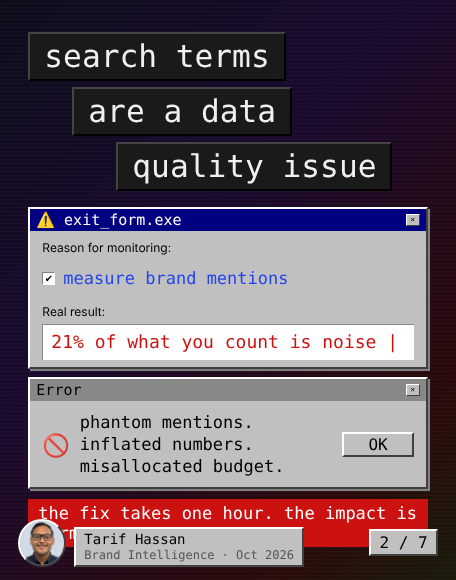
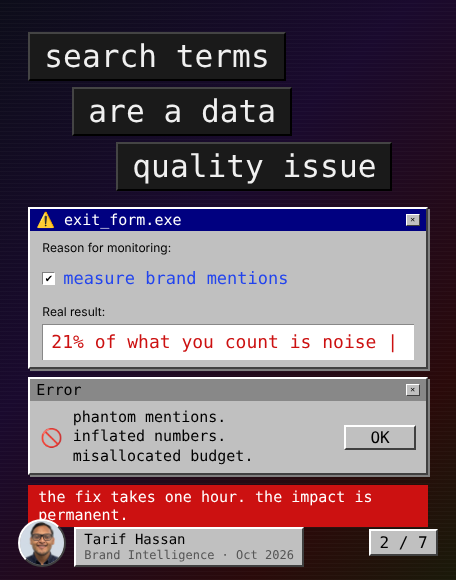
Fix slide overlap, recapture PNGs, center images in README

Changed region(s): [[0.0614, 0.7138, 0.9518, 0.9621]]

diff --git a/README.md b/README.md
@@ -5,7 +5,7 @@ Brand monitoring tools count YouTube mentions by searching for keywords. But wha
 
 Public data · YouTube Data API v3 · PostgreSQL / SQL analysis · Personal portfolio project
 
-![Slide 1](06_executive_brief/slides/slide_01.png)
+<p align="center"><img src="06_executive_brief/slides/slide_01.png" width="480"></p>
 
 ---
 
@@ -15,13 +15,13 @@ Brand teams search YouTube for "dove" and count everything as a brand mention. A
 
 Full framing in [`01_business_problem/problem_statement.md`](01_business_problem/problem_statement.md).
 
-![Slide 2](06_executive_brief/slides/slide_02.png)
+<p align="center"><img src="06_executive_brief/slides/slide_02.png" width="480"></p>
 
 ---
 
 ## Methodology
 
-![Slide 3](06_executive_brief/slides/slide_03.png)
+<p align="center"><img src="06_executive_brief/slides/slide_03.png" width="480"></p>
 
 1. **Define** — 20 search terms across 4 tiers: brand core, campaign, misspellings, ambiguous
 2. **Collect** — YouTube Data API v3, top 15 Shorts per term → 289 videos total
@@ -36,7 +36,7 @@ Data collection script in [`02_data/fetch_data.py`](02_data/fetch_data.py). Labe
 
 ## Precision Results — All 20 Terms
 
-![Slide 4](06_executive_brief/slides/slide_04.png)
+<p align="center"><img src="06_executive_brief/slides/slide_04.png" width="480"></p>
 
 | Search Term | Tier | Precision |
 |---|---|---|
@@ -66,7 +66,7 @@ Full precision query in [`03_sql/03_precision_analysis.sql`](03_sql/03_precision
 
 ## Key Finding
 
-![Slide 5](06_executive_brief/slides/slide_05.png)
+<p align="center"><img src="06_executive_brief/slides/slide_05.png" width="480"></p>
 
 **The bare term "dove" scores 0.53 precision.** Including it in brand monitoring is a coin flip — 1 in 2 results is not the brand, producing roughly a 47% overstatement in mention counts.
 
@@ -76,7 +76,7 @@ Full precision query in [`03_sql/03_precision_analysis.sql`](03_sql/03_precision
 
 ## Recommendations
 
-![Slide 6](06_executive_brief/slides/slide_06.png)
+<p align="center"><img src="06_executive_brief/slides/slide_06.png" width="480"></p>
 
 **Keep (13 terms, precision 1.0)** — All brand_core and campaign terms. These are clean signals with zero noise.
 
@@ -90,7 +90,7 @@ Full playbook in [`05_taxonomy_playbook/taxonomy_playbook.md`](05_taxonomy_playb
 
 ## The Verdict
 
-![Slide 7](06_executive_brief/slides/slide_07.png)
+<p align="center"><img src="06_executive_brief/slides/slide_07.png" width="480"></p>
 
 Product-specific terms always win. The fix is a one-time audit of the term list — one afternoon of work with a permanent impact on data quality.
 
